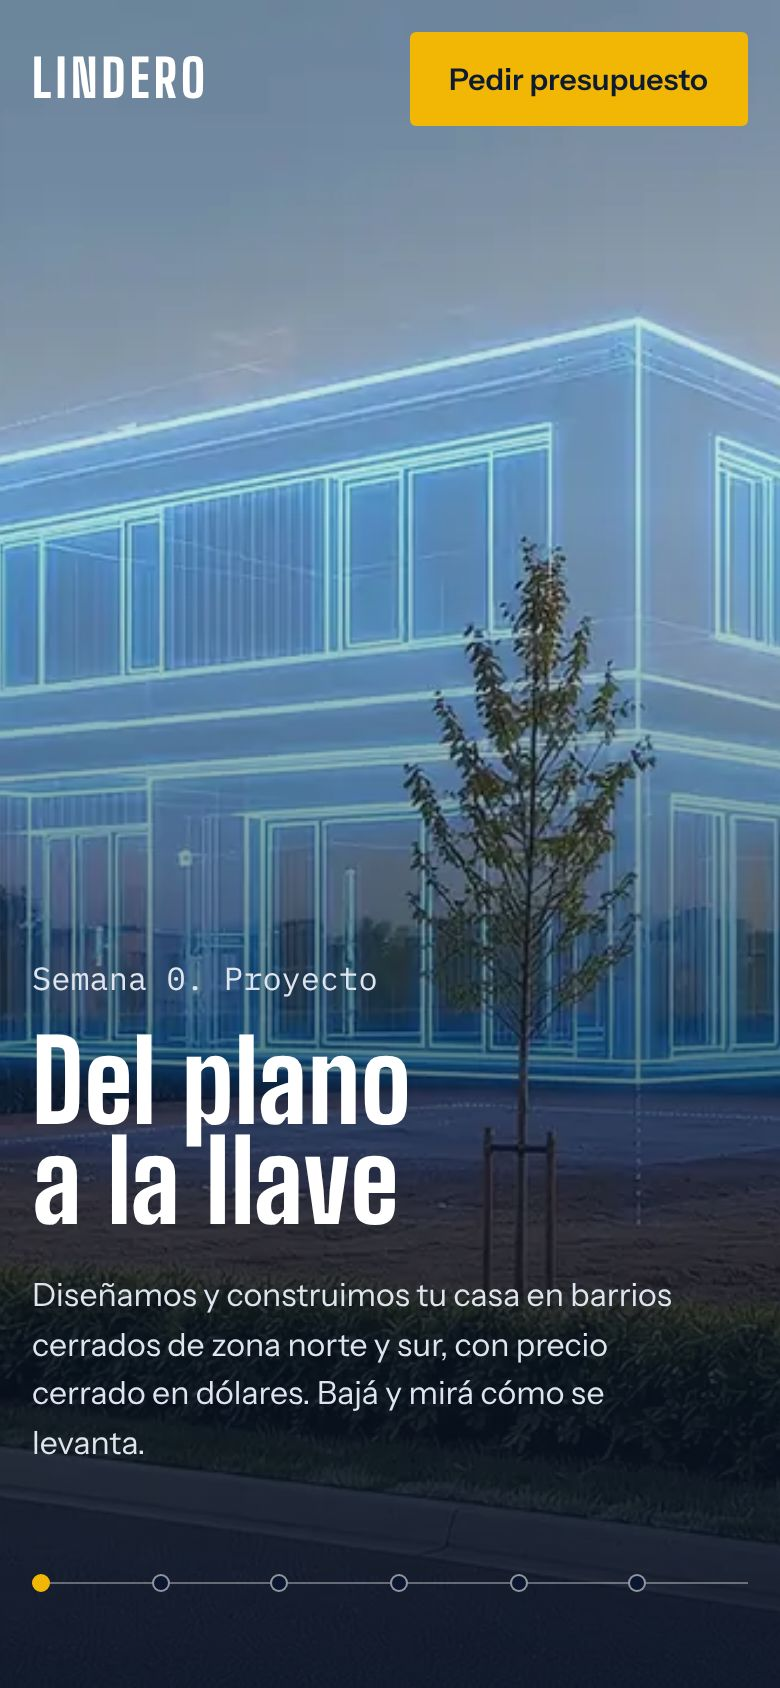
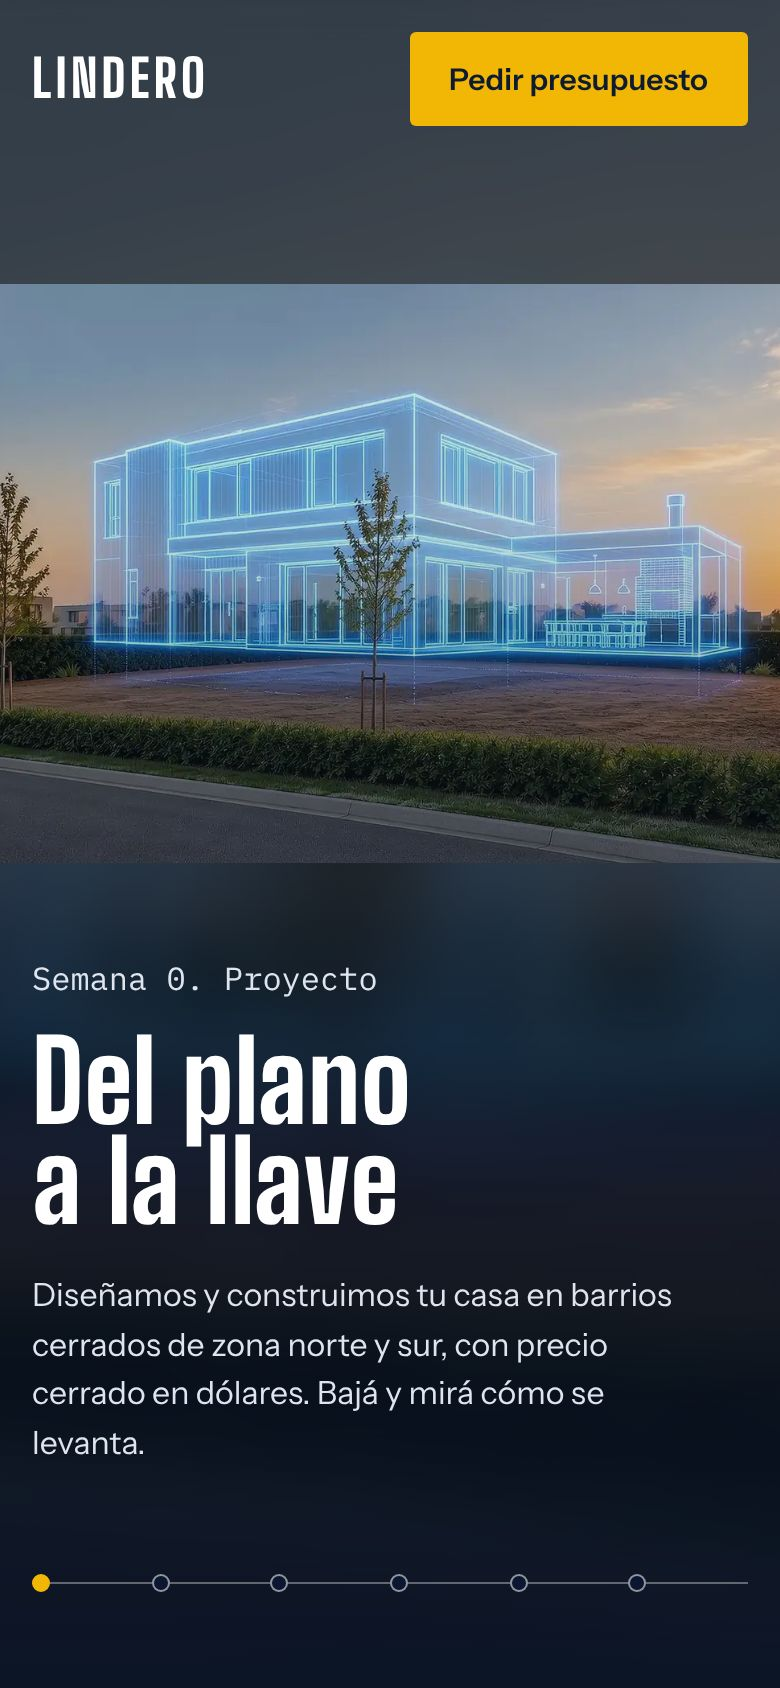
Lindero: en celular y tablet la casa entra completa, con fondo desenfocado
Claude-Session: https://claude.ai/code/session_01KneUmhKphiFygSSmiPurJG

diff --git a/lindero/index.html b/lindero/index.html
@@ -439,11 +439,36 @@ const USD_M2 = 1290;
     }
     if (!img) return;
     const w = canvas.width, h = canvas.height;
-    const e = Math.max(w / img.naturalWidth, h / img.naturalHeight);
-    const iw = img.naturalWidth * e, ih = img.naturalHeight * e;
-    const fx = innerWidth < 900 ? .42 : .5;
-    ctx.drawImage(img, (w - iw) * fx, (h - ih) * .6, iw, ih);
+    const g = geometria(img.naturalWidth, img.naturalHeight, w, h);
+    if (g.ajustada) {
+      // pantalla angosta: la casa entra completa y atrás va la misma imagen ampliada y desenfocada
+      const e = Math.max(w / img.naturalWidth, h / img.naturalHeight);
+      ctx.filter = 'blur(28px) brightness(.45) saturate(.9)';
+      ctx.drawImage(img, (w - img.naturalWidth * e) / 2, (h - img.naturalHeight * e) / 2, img.naturalWidth * e, img.naturalHeight * e);
+      ctx.filter = 'none';
+    }
+    ctx.drawImage(img, g.x, g.y, g.ancho, g.alto);
   };
+  // dónde va el cuadro: en pantallas anchas llena todo; en las angostas entra entero arriba del texto
+  function geometria(nw, nh, w, h){
+    if (w / h >= 1.3) {
+      const e = Math.max(w / nw, h / nh);
+      return {ajustada: false, ancho: nw * e, alto: nh * e, x: (w - nw * e) / 2, y: (h - nh * e) * .6};
+    }
+    // en el celular se recortan solo los árboles de los costados; la casa ocupa del 20% al 85% del cuadro
+    const ancho = w * (w / h < .8 ? 1.32 : 1.08), alto = nh * ancho / nw;
+    const y = Math.max(h * .1, h * .34 - alto / 2);
+    return {ajustada: true, ancho, alto, x: (w - ancho) / 2, y};
+  }
+  // la foto de noche usa la misma geometría que el cuadro, para que el cambio no salte
+  const ubicarNoche = () => {
+    const img = noche.querySelector('img');
+    const g = geometria(16, 9, innerWidth, innerHeight);
+    Object.assign(img.style, g.ajustada
+      ? {position: 'absolute', left: g.x + 'px', top: g.y + 'px', width: g.ancho + 'px', height: g.alto + 'px', objectFit: 'cover', maxWidth: 'none'}
+      : {position: '', left: '', top: '', width: '', height: '', objectFit: '', maxWidth: ''});
+  };
+  addEventListener('resize', ubicarNoche); ubicarNoche();
   const medir = () => {
     const r = Math.min(devicePixelRatio || 1, 2);
     canvas.width = Math.round(canvas.clientWidth * r);
